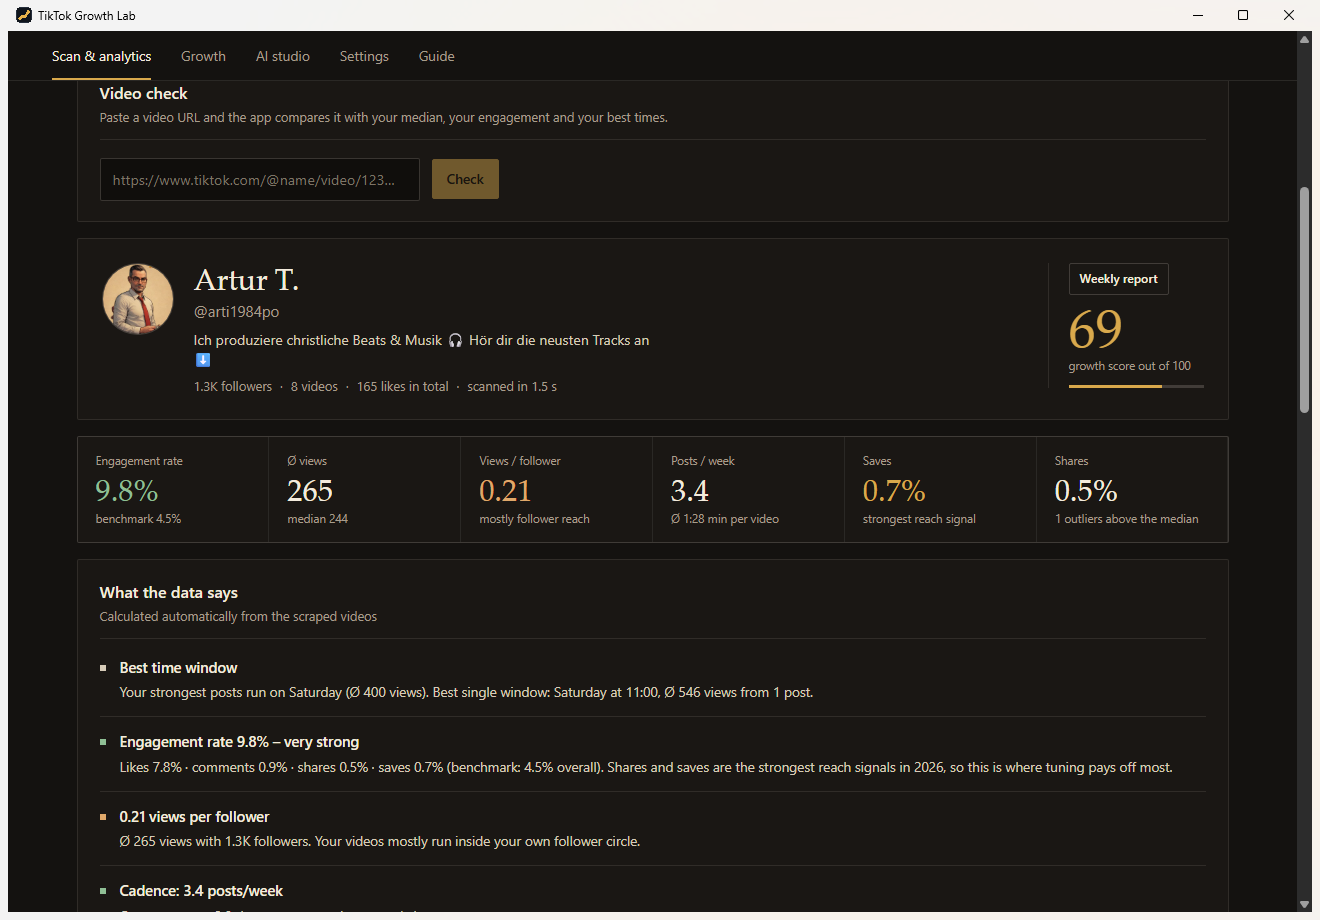
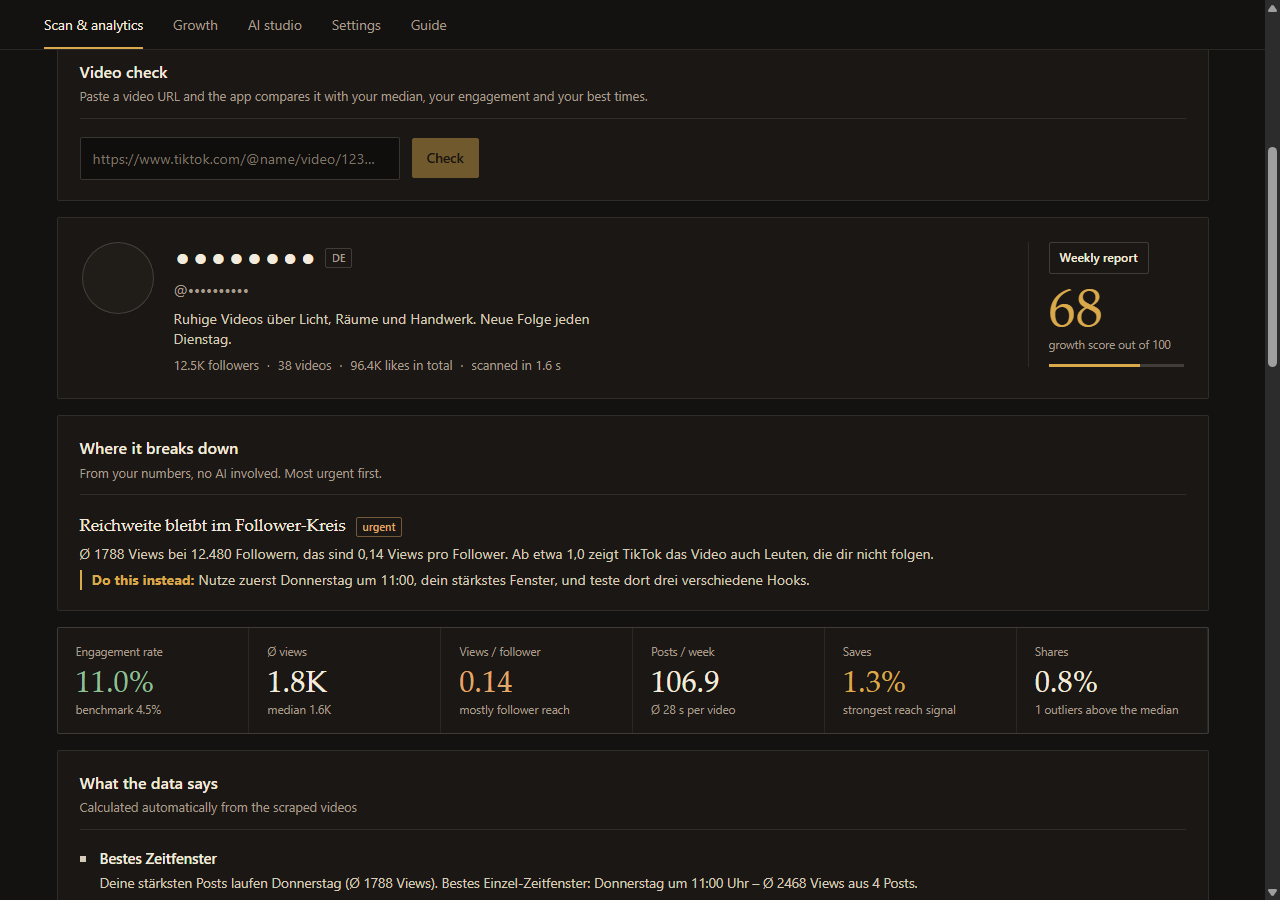
Version 2.23.0: README-Bilder ohne echtes Konto, Ziel-Rechner behaelt den Zuklapp-Zustand
Die Screenshots in docs/screenshots zeigen ein erfundenes Profil mit leerem
Avatar und maskiertem Kontonamen, damit kein echter Account oeffentlich wird.
Karte und Werteliste im Ziel-Rechner merken sich ihren Zustand, weil der
Reiterwechsel sie bisher wieder aufgeklappt hat.

diff --git a/src/components/GoalCard.tsx b/src/components/GoalCard.tsx
@@ -14,6 +14,26 @@ import { Alert, Chevron, ProgressBar, Section, Spinner } from "./ui";
 const today = () => new Date(new Date().toDateString());
 const daysBetween = (from: Date, to: Date) => Math.round((to.getTime() - from.getTime()) / 86_400_000);
 
+/** Zuklapp-Zustand, der den Reiterwechsel und das Neuladen uebersteht. */
+function useStoredOpen(key: string, fallback: boolean) {
+  const [open, setOpen] = useState<boolean>(() => {
+    try {
+      const stored = window.localStorage.getItem(key);
+      return stored === null ? fallback : stored === "1";
+    } catch {
+      return fallback;
+    }
+  });
+  useEffect(() => {
+    try {
+      window.localStorage.setItem(key, open ? "1" : "0");
+    } catch {
+      // Ohne Speicher gilt der Zustand nur bis zum Neuladen.
+    }
+  }, [key, open]);
+  return [open, () => setOpen((current) => !current)] as const;
+}
+
 type GoalProfile = {
   handle: string;
   nickname: string;
@@ -30,8 +50,8 @@ export function GoalCard({ scan, accounts }: { scan: ScanResult | null; accounts
   const [date, setDate] = useState("");
   const [busy, setBusy] = useState(false);
   const [error, setError] = useState<string | null>(null);
-  const [open, setOpen] = useState(true);
-  const [showValues, setShowValues] = useState(true);
+  const [open, toggleOpen] = useStoredOpen("goalCard.open", true);
+  const [showValues, toggleValues] = useStoredOpen("goalCard.values", true);
 
   useEffect(() => {
     api
@@ -162,7 +182,7 @@ export function GoalCard({ scan, accounts }: { scan: ScanResult | null; accounts
       title={t("Ziel-Rechner", "Goal calculator")}
       collapsible
       collapsed={!open}
-      onToggle={() => setOpen((value) => !value)}
+      onToggle={toggleOpen}
       subtitle={t(
         "Profil wählen, Ziel und Datum eintragen: daraus wird, wie viele Follower, Views und Posts pro Woche nötig sind und wie viel seit dem Zielstart dazukam.",
         "Pick a profile, enter a target and a date: that becomes the followers, views and posts per week it takes, plus how much has come in since the goal started.",
@@ -222,7 +242,7 @@ export function GoalCard({ scan, accounts }: { scan: ScanResult | null; accounts
           type="button"
           className="values-toggle"
           aria-expanded={showValues}
-          onClick={() => setShowValues((value) => !value)}
+          onClick={toggleValues}
         >
           <span className="row gap-sm center">
             <Chevron open={showValues} />
